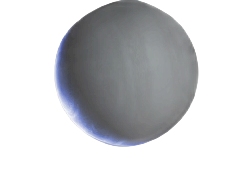
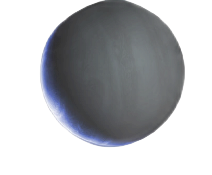
changed some design and make compatable on small devices

diff --git a/static/css/index.css b/static/css/index.css
@@ -1,12 +1,21 @@
 .first-sec{
     height: 100vh;
     background-image: linear-gradient(90deg, #020024 0%, #090979 35%, #00d4ff 100%);
+    display: flex;
+    flex-direction: row;
+    justify-content: center;
+    align-items: center;
 }
-.name-containter{
-    max-width: 75vw;
-    position: absolute;
-    left: 10vw;
-    top: 20vh;
+.mytext{
+    width: 70vw;
+    padding-left: 20px;
+}
+.bg{
+    width:70vw;
+}
+.planet{
+    height:430px;
+    width:500px;
 }
 .f-big{
     font-size: 50px;
@@ -18,20 +27,8 @@
     color:rgb(238, 225, 225);
 }
 
-.telescope{
-    position: absolute;;
-    left:15vw;
-    bottom:-10vh;
-}
-.planet{
-    position: absolute;
-    right:0vw;
-    top:0vh;
-}
+
 @media only screen and (max-width: 980px){
-    .name-containter{
-        max-width: 60vw;
-    }
     .f-big{
         font-size: 30px;
     }
@@ -40,4 +37,16 @@
         font-size:18px;
     }
 
+}
+@media only screen and (max-width: 800px){
+    .planet{
+        height:300px;
+        width:300px;
+    }
+}
+@media only screen and (max-width: 530px){
+    .planet{
+        height:170px;
+        width:170px;
+    }
 }

diff --git a/template/index.html b/template/index.html
@@ -4,25 +4,28 @@
 
 <!-- Css of Page-->
 {%block links%}
-<link rel="stylesheet" href="/static/css/index.css">
+<link rel="stylesheet" href="/static/css/index.css" />
 {%endblock links%}
 
-
 <!--Body of Page-->
-{%block body%} 
+{%block body%}
 
 <section class="first-sec">
-    <img class='telescope' src="/static/image/telescope.png" height="550" width="900" alt="telescope">
-    <img class='planet' src="/static/image/planet.png" height="300" width="500" alt="planet">
-    <div class="name-containter">
-        <h1 class="f-audio f-big">Hey I'm ALVIN SAINI</h1><br>
-        <h3 class="f-audio f-small">I am a Programmer</h3>
-    </div>
+  <div class="mytext">
+    <h1 class="f-audio f-big">Hey I'm ALVIN SAINI</h1>
+    <br />
+    <h3 class="f-audio f-small">I am a Programmer</h3>
+  </div>
+  <div class="bg">
+    <img
+      class="planet"
+      src="/static/image/planet.png"
+      alt="planet"
+    />
+  </div>
 </section>
 
 {%endblock body%}
 
 <!-- Script of Page-->
-{%block script%}
-
-{%endblock script%}
+{%block script%} {%endblock script%}
